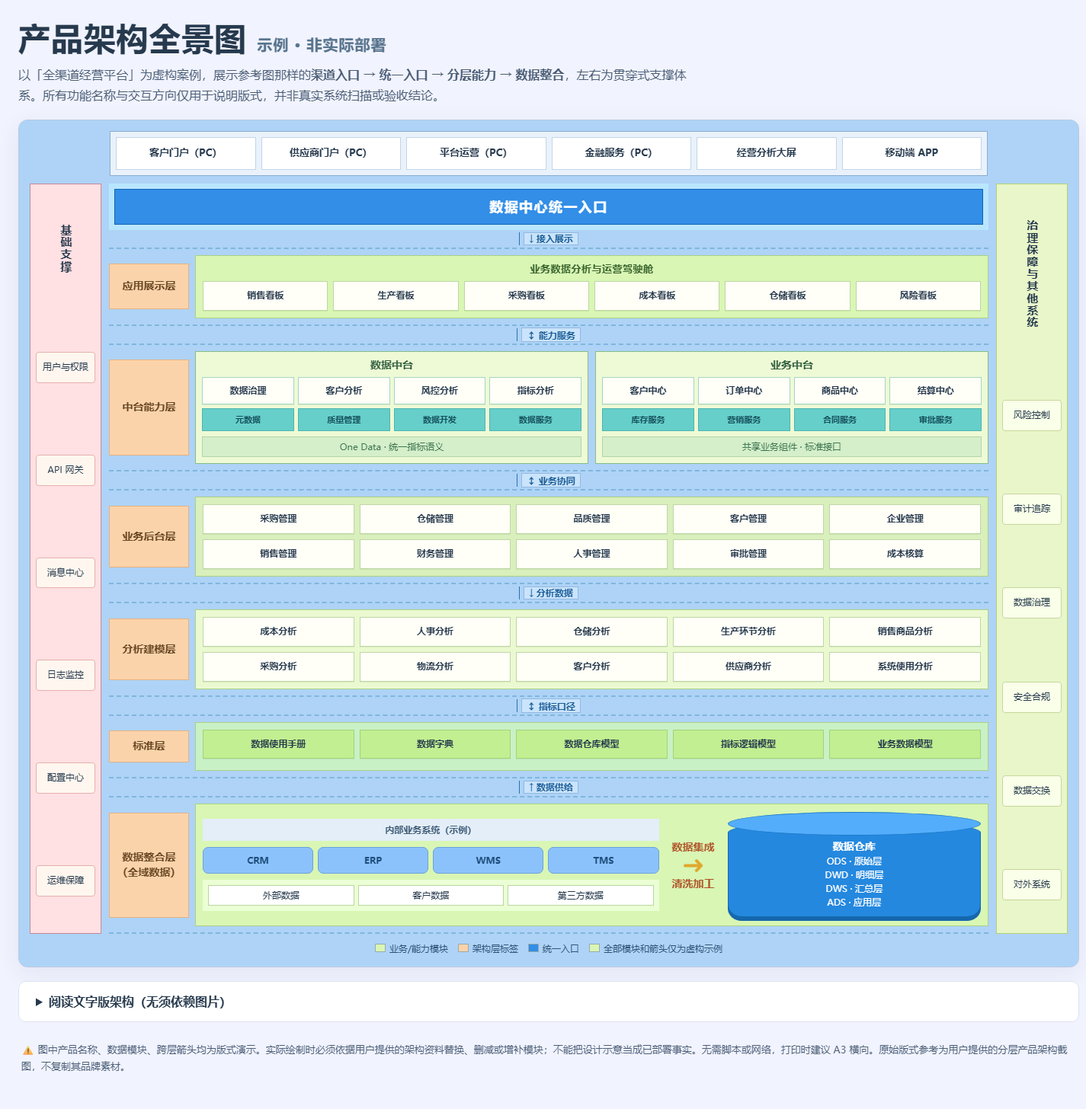
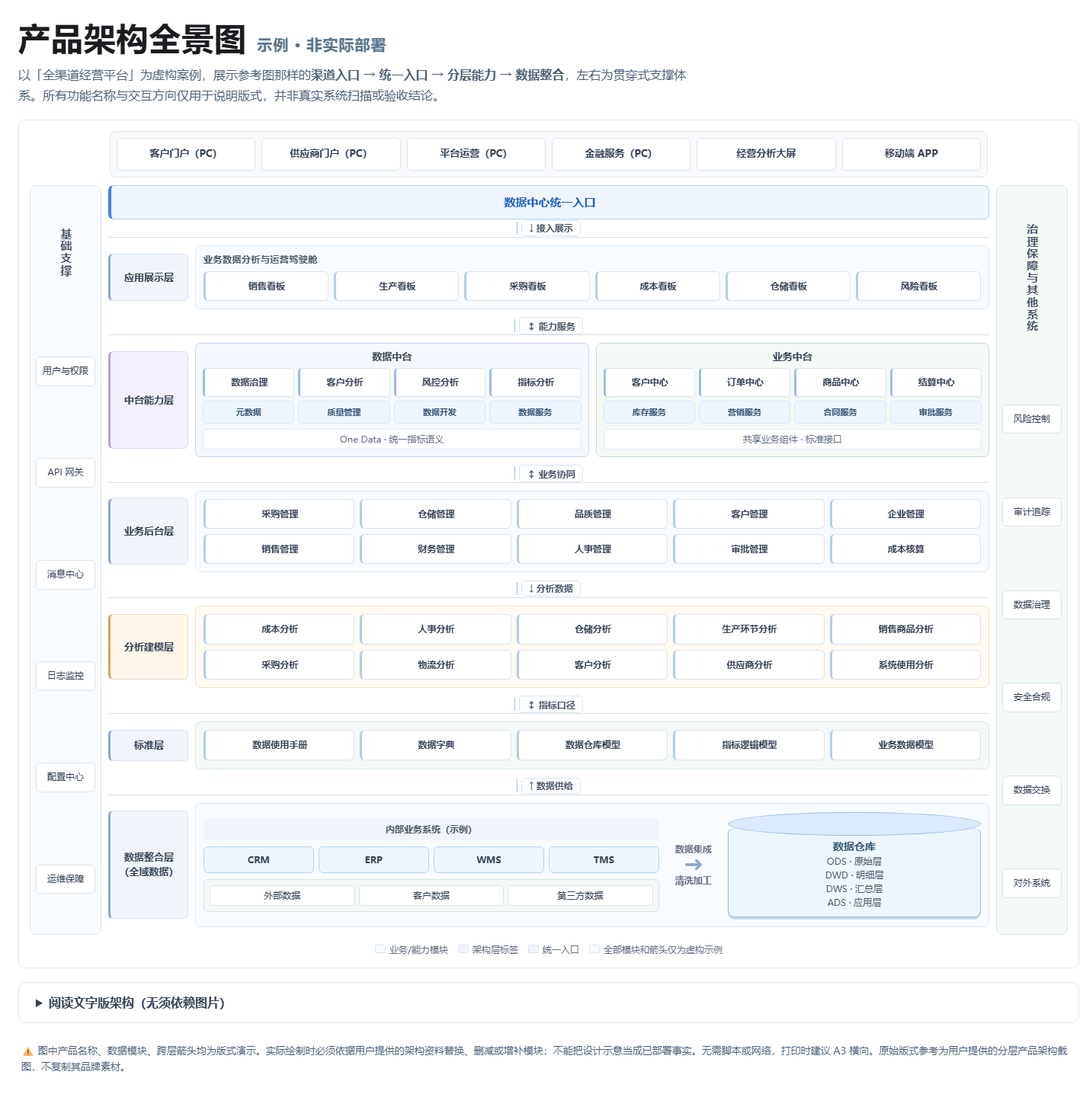
feat: 统一产品架构全景图与SVG系列视觉风格
全景图主题,四案例预览,浏览器回归

GEN-UI

diff --git a/demo/documents/implementation-plan.html b/demo/documents/implementation-plan.html
@@ -1,5 +1,5 @@
 <!doctype html>
-<html lang="zh-CN"><head><meta charset="utf-8"><meta name="viewport" content="width=device-width,initial-scale=1"><meta name="description" content="可靠异步任务编排系统的技术实施方案，包含阶段计划、迁移、灰度、回滚和验收标准。"><title>技术实施方案 · 可靠异步任务编排改造 · GEN-UI 技术文档示例</title><link rel="stylesheet" href="assets/document.css"><link rel="stylesheet" href="assets/product-panorama-case.css"><script src="assets/document.js" defer></script><link rel="icon" type="image/svg+xml" href="../../assets/icons/gen-ui-mark.svg"><link rel="stylesheet" href="../../assets/media-viewer.css"><script src="../../assets/media-viewer.js" defer></script><script src="../../assets/code-blocks.js" defer></script><link rel="stylesheet" href="../../assets/diagram-types.css"><link rel="stylesheet" href="../../assets/semantic-diagrams.css"><script src="../../assets/semantic-diagrams.js" defer></script><link rel="stylesheet" href="../../assets/heading-nav.css"><script src="../../assets/heading-nav.js" defer></script></head><body><div class="doc-layout"><aside class="doc-toc" aria-label="文档目录"><p class="toc-brand">GEN-UI / TECHNICAL DOCUMENT</p><p class="toc-label">本文目录</p><nav aria-label="文档目录"><ul class="toc-list"><li><a href="#scope">实施目标与改造范围</a></li><li><a href="#roadmap">实施阶段与依赖关系</a></li><li><a href="#work">详细实施任务</a></li><li><a href="#changes">模块改造建议</a></li><li><a href="#migration">数据迁移与兼容策略</a></li><li><a href="#release">灰度发布与回滚</a></li><li><a href="#risks">实施风险与控制</a></li><li><a href="#acceptance">交付物与验收标准</a></li><li><a href="#extra-diagrams">关系图示</a></li></ul></nav><div class="toc-foot">脱敏示例文档<br>内容为设计演示，不代表真实审计结论</div></aside><main class="doc-main"><div class="doc-topline"><div class="doc-breadcrumb"><a href="index.html">技术文档示例集</a><span>/</span><span>技术实施方案</span></div><span>GEN-UI · HTML</span></div><details class="mobile-toc"><summary>查看本文目录</summary><ul class="toc-list"><li><a href="#scope">实施目标与改造范围</a></li><li><a href="#roadmap">实施阶段与依赖关系</a></li><li><a href="#work">详细实施任务</a></li><li><a href="#changes">模块改造建议</a></li><li><a href="#migration">数据迁移与兼容策略</a></li><li><a href="#release">灰度发布与回滚</a></li><li><a href="#risks">实施风险与控制</a></li><li><a href="#acceptance">交付物与验收标准</a></li><li><a href="#extra-diagrams">关系图示</a></li></ul></details><header><div class="doc-meta"><span><b>生成时间</b><time class="generated-at" datetime="2026-11-10T13:57:49+08:00">2026-11-10 13:57:49</time></span><span><b>文档编号</b>DOC-IM-003</span><span><b>版本</b>V1.0</span><span><b>文档类型</b>技术实施方案</span><span><b>更新时间</b>2026-11-09</span><span><b>状态</b><span class="tag tag--blue">示例文档</span></span></div><p class="doc-kicker">ENGINEERING DOCUMENT / SANITIZED CASE</p><h1>技术实施方案 · 可靠异步任务编排改造</h1><p class="doc-lede">将长耗时工作流从同步执行改造为持久化驱动的异步任务体系，按基线梳理、核心改造、恢复能力和上线验收四个阶段交付。</p><div class="doc-summary"><strong>实施策略</strong><p>先明确状态模型和消息契约，再落地 Outbox、幂等消费与 Fencing，最后通过故障注入和灰度发布验证恢复能力。任何阶段都以可复现证据作为退出条件。</p></div></header>
+<html lang="zh-CN"><head><meta charset="utf-8"><meta name="viewport" content="width=device-width,initial-scale=1"><meta name="description" content="可靠异步任务编排系统的技术实施方案，包含阶段计划、迁移、灰度、回滚和验收标准。"><title>技术实施方案 · 可靠异步任务编排改造 · GEN-UI 技术文档示例</title><link rel="stylesheet" href="assets/document.css"><link rel="stylesheet" href="assets/product-panorama-case.css"><link rel="stylesheet" href="../../assets/product-panorama-svg-theme.css"><script src="assets/document.js" defer></script><link rel="icon" type="image/svg+xml" href="../../assets/icons/gen-ui-mark.svg"><link rel="stylesheet" href="../../assets/media-viewer.css"><script src="../../assets/media-viewer.js" defer></script><script src="../../assets/code-blocks.js" defer></script><link rel="stylesheet" href="../../assets/diagram-types.css"><link rel="stylesheet" href="../../assets/semantic-diagrams.css"><script src="../../assets/semantic-diagrams.js" defer></script><link rel="stylesheet" href="../../assets/heading-nav.css"><script src="../../assets/heading-nav.js" defer></script></head><body><div class="doc-layout"><aside class="doc-toc" aria-label="文档目录"><p class="toc-brand">GEN-UI / TECHNICAL DOCUMENT</p><p class="toc-label">本文目录</p><nav aria-label="文档目录"><ul class="toc-list"><li><a href="#scope">实施目标与改造范围</a></li><li><a href="#roadmap">实施阶段与依赖关系</a></li><li><a href="#work">详细实施任务</a></li><li><a href="#changes">模块改造建议</a></li><li><a href="#migration">数据迁移与兼容策略</a></li><li><a href="#release">灰度发布与回滚</a></li><li><a href="#risks">实施风险与控制</a></li><li><a href="#acceptance">交付物与验收标准</a></li><li><a href="#extra-diagrams">关系图示</a></li></ul></nav><div class="toc-foot">脱敏示例文档<br>内容为设计演示，不代表真实审计结论</div></aside><main class="doc-main"><div class="doc-topline"><div class="doc-breadcrumb"><a href="index.html">技术文档示例集</a><span>/</span><span>技术实施方案</span></div><span>GEN-UI · HTML</span></div><details class="mobile-toc"><summary>查看本文目录</summary><ul class="toc-list"><li><a href="#scope">实施目标与改造范围</a></li><li><a href="#roadmap">实施阶段与依赖关系</a></li><li><a href="#work">详细实施任务</a></li><li><a href="#changes">模块改造建议</a></li><li><a href="#migration">数据迁移与兼容策略</a></li><li><a href="#release">灰度发布与回滚</a></li><li><a href="#risks">实施风险与控制</a></li><li><a href="#acceptance">交付物与验收标准</a></li><li><a href="#extra-diagrams">关系图示</a></li></ul></details><header><div class="doc-meta"><span><b>生成时间</b><time class="generated-at" datetime="2026-11-10T13:57:49+08:00">2026-11-10 13:57:49</time></span><span><b>文档编号</b>DOC-IM-003</span><span><b>版本</b>V1.0</span><span><b>文档类型</b>技术实施方案</span><span><b>更新时间</b>2026-11-09</span><span><b>状态</b><span class="tag tag--blue">示例文档</span></span></div><p class="doc-kicker">ENGINEERING DOCUMENT / SANITIZED CASE</p><h1>技术实施方案 · 可靠异步任务编排改造</h1><p class="doc-lede">将长耗时工作流从同步执行改造为持久化驱动的异步任务体系，按基线梳理、核心改造、恢复能力和上线验收四个阶段交付。</p><div class="doc-summary"><strong>实施策略</strong><p>先明确状态模型和消息契约，再落地 Outbox、幂等消费与 Fencing，最后通过故障注入和灰度发布验证恢复能力。任何阶段都以可复现证据作为退出条件。</p></div></header>
 <section class="doc-section" id="scope"><h2>一、 实施目标与改造范围</h2><p>本实施方案将同步、单进程内的长任务执行方式，逐步改造为持久化驱动的异步任务编排。目标是保证任务可追踪、可恢复、可幂等处理，并使节点执行结果能够被可靠汇总。</p><div class="table-wrap"><table><caption>改造范围</caption><thead><tr><th>范围</th><th>本次实施</th><th>明确不做</th></tr></thead><tbody><tr><td>任务模型</td><td>Run、Node、Task、Attempt 状态与关联</td><td>重构无关业务领域模型</td></tr><tr><td>任务执行</td><td>调度、Outbox、Worker 领取与回写</td><td>替换所有模型供应商</td></tr><tr><td>一致性</td><td>乐观锁、Fencing Token、消费幂等</td><td>宣称端到端 exactly-once</td></tr><tr><td>恢复能力</td><td>过期任务对账、断点恢复、事件留痕</td><td>自动修复所有业务数据错误</td></tr><tr><td>可观测性</td><td>统一关联 ID、关键指标和失败分类</td><td>本期建设完整数据分析平台</td></tr></tbody></table></div></section>
 <section class="doc-section" id="roadmap"><h2>二、 实施阶段与依赖关系</h2><p>推荐按“先明确契约，再打通可靠执行，最后补齐恢复和验收”的顺序推进。任何阶段如果发现当前数据模型无法表达执行权或尝试历史，应先修正模型，不应通过临时缓存字段绕过。</p><div class="diagram" data-diagram><div class="diagram-toolbar"><strong>实施阶段依赖关系</strong><div class="diagram-actions"><button type="button" class="diagram-icon-button" data-zoom-out aria-label="缩小图表" title="缩小图表"><svg viewBox="0 0 20 20" aria-hidden="true"><path d="M4 10h12"/></svg></button><button type="button" class="diagram-icon-button" data-zoom-in aria-label="放大图表" title="放大图表"><svg viewBox="0 0 20 20" aria-hidden="true"><path d="M4 10h12M10 4v12"/></svg></button><span data-zoom-label aria-live="polite">100%</span><button type="button" class="diagram-icon-button" data-fit aria-label="适应窗口" title="适应窗口"><svg viewBox="0 0 20 20" aria-hidden="true"><path d="M3 8V3h5M12 3h5v5M17 12v5h-5M8 17H3v-5"/></svg></button><button type="button" class="diagram-icon-button" data-fullscreen aria-label="全屏查看图表" title="全屏查看图表"><svg viewBox="0 0 20 20" aria-hidden="true"><path d="M3 7V3h4M13 3h4v4M17 13v4h-4M7 17H3v-4"/></svg></button></div></div><div class="diagram-viewport" tabindex="0" role="region" aria-label="实施阶段依赖关系，可使用方向键平移，鼠标拖动"><svg viewBox="0 0 1000 260" role="img" aria-label="实施阶段依赖关系"><title>实施阶段依赖关系</title><desc>实施阶段依赖关系，展示系统模块、执行流程或状态关系。</desc><defs><marker id="arr" markerWidth="9" markerHeight="9" refX="7" refY="4" orient="auto"><path d="M0 0L8 4L0 8" fill="#98a2b3"/></marker></defs><rect x="25" y="80" width="185" height="85" rx="9" fill="#F7FAFF" stroke="#B7D2FA" stroke-width="1.5"/><text x="117.5" y="109" text-anchor="middle" font-size="15" font-weight="700" fill="#1A1C1F">阶段一 · 基线梳理</text><text x="117.5" y="132" text-anchor="middle" font-size="11" fill="#667085">现状盘点 / 契约确认</text><rect x="280" y="80" width="185" height="85" rx="9" fill="#F7FAFF" stroke="#B7D2FA" stroke-width="1.5"/><text x="372.5" y="109" text-anchor="middle" font-size="15" font-weight="700" fill="#1A1C1F">阶段二 · 核心改造</text><text x="372.5" y="132" text-anchor="middle" font-size="11" fill="#667085">状态机 / CAS / Outbox</text><rect x="535" y="80" width="185" height="85" rx="9" fill="#F7FAFF" stroke="#B7D2FA" stroke-width="1.5"/><text x="627.5" y="109" text-anchor="middle" font-size="15" font-weight="700" fill="#1A1C1F">阶段三 · 恢复能力</text><text x="627.5" y="132" text-anchor="middle" font-size="11" fill="#667085">Fencing / 对账 / 幂等</text><rect x="790" y="80" width="185" height="85" rx="9" fill="#EDF8F2" stroke="#B7DDC5" stroke-width="1.5"/><text x="882.5" y="109" text-anchor="middle" font-size="15" font-weight="700" fill="#1A1C1F">阶段四 · 验收上线</text><text x="882.5" y="132" text-anchor="middle" font-size="11" fill="#667085">故障注入 / 灰度 / 观察</text><path d="M210 122 L280 122" stroke="#98A2B3" stroke-width="1.7" fill="none" marker-end="url(#arr)"/><path d="M465 122 L535 122" stroke="#98A2B3" stroke-width="1.7" fill="none" marker-end="url(#arr)"/><path d="M720 122 L790 122" stroke="#98A2B3" stroke-width="1.7" fill="none" marker-end="url(#arr)"/><path d="M375 165V210H880V165" stroke="#E6A23C" stroke-width="1.5" fill="none" stroke-dasharray="5 4" marker-end="url(#arr)"/><text x="625" y="230" text-anchor="middle" font-size="11" fill="#8A5A12">每阶段通过评审门禁后再进入下一阶段</text></svg></div><p class="diagram-caption">图 1：阶段门禁是进入下一阶段的前提；阶段三与阶段四可以在测试准备上部分并行，但不能跳过核心一致性验证。</p></div><div class="table-wrap"><table><caption>阶段计划</caption><thead><tr><th>阶段</th><th>工作包</th><th>交付物</th><th>退出条件</th></tr></thead><tbody><tr><td>阶段一 · 基线梳理</td><td>梳理当前流程、状态字段、消息路径、异常类型与数据归属</td><td>现状图、状态迁移表、接口契约、风险清单</td><td>核心状态与边界经评审确认</td></tr><tr><td>阶段二 · 核心改造</td><td>建立 Task / Attempt 模型、CAS 更新、Outbox 发布与幂等消费</td><td>持久化模型、调度器、Worker 基础链路</td><td>重复消息不会造成重复状态提交</td></tr><tr><td>阶段三 · 恢复能力</td><td>增加 fencing、心跳、租约对账、恢复扫描和错误分类</td><td>恢复器、故障注入脚本、恢复事件</td><td>旧执行者不能覆盖新执行者结果</td></tr><tr><td>阶段四 · 验收上线</td><td>集成测试、并发测试、灰度、监控与回滚演练</td><td>测试证据、发布记录、回滚记录</td><td>P0 用例通过且观察窗口无阻断问题</td></tr></tbody></table></div>
 <div class="genui-product-panorama" data-product-panorama-case="implementation-plan">

diff --git a/demo/documents/test-acceptance.html b/demo/documents/test-acceptance.html
@@ -1,5 +1,5 @@
 <!doctype html>
-<html lang="zh-CN"><head><meta charset="utf-8"><meta name="viewport" content="width=device-width,initial-scale=1"><meta name="description" content="异步任务编排系统测试验收方案，覆盖状态机、重复消息、执行权、故障恢复、性能和权限。"><title>测试与验收方案 · 异步任务可靠性专项 · GEN-UI 技术文档示例</title><link rel="stylesheet" href="assets/document.css"><link rel="stylesheet" href="assets/product-panorama-case.css"><script src="assets/document.js" defer></script><link rel="icon" type="image/svg+xml" href="../../assets/icons/gen-ui-mark.svg"><link rel="stylesheet" href="../../assets/media-viewer.css"><script src="../../assets/media-viewer.js" defer></script><script src="../../assets/code-blocks.js" defer></script><link rel="stylesheet" href="../../assets/diagram-types.css"><link rel="stylesheet" href="../../assets/semantic-diagrams.css"><script src="../../assets/semantic-diagrams.js" defer></script><link rel="stylesheet" href="../../assets/heading-nav.css"><script src="../../assets/heading-nav.js" defer></script></head><body><div class="doc-layout"><aside class="doc-toc" aria-label="文档目录"><p class="toc-brand">GEN-UI / TECHNICAL DOCUMENT</p><p class="toc-label">本文目录</p><nav aria-label="文档目录"><ul class="toc-list"><li><a href="#strategy">测试目标与策略</a></li><li><a href="#environment">环境、数据与前置条件</a></li><li><a href="#matrix">测试覆盖矩阵</a></li><li><a href="#cases">核心测试用例</a></li><li><a href="#faults">关键故障注入验证</a></li><li><a href="#performance">性能与稳定性测试</a></li><li><a href="#security">安全与数据正确性</a></li><li><a href="#acceptance">验收门禁与证据要求</a></li><li><a href="#extra-diagrams">关系图示</a></li></ul></nav><div class="toc-foot">脱敏示例文档<br>内容为设计演示，不代表真实审计结论</div></aside><main class="doc-main"><div class="doc-topline"><div class="doc-breadcrumb"><a href="index.html">技术文档示例集</a><span>/</span><span>测试与验收方案</span></div><span>GEN-UI · HTML</span></div><details class="mobile-toc"><summary>查看本文目录</summary><ul class="toc-list"><li><a href="#strategy">测试目标与策略</a></li><li><a href="#environment">环境、数据与前置条件</a></li><li><a href="#matrix">测试覆盖矩阵</a></li><li><a href="#cases">核心测试用例</a></li><li><a href="#faults">关键故障注入验证</a></li><li><a href="#performance">性能与稳定性测试</a></li><li><a href="#security">安全与数据正确性</a></li><li><a href="#acceptance">验收门禁与证据要求</a></li><li><a href="#extra-diagrams">关系图示</a></li></ul></details><header><div class="doc-meta"><span><b>生成时间</b><time class="generated-at" datetime="2026-11-10T13:57:49+08:00">2026-11-10 13:57:49</time></span><span><b>文档编号</b>DOC-TA-004</span><span><b>版本</b>V1.0</span><span><b>文档类型</b>测试与验收方案</span><span><b>更新时间</b>2026-11-09</span><span><b>状态</b><span class="tag tag--blue">示例文档</span></span></div><p class="doc-kicker">ENGINEERING DOCUMENT / SANITIZED CASE</p><h1>测试与验收方案 · 异步任务可靠性专项</h1><p class="doc-lede">围绕任务状态一致性、重复投递、租约过期、进程崩溃与断点恢复设计可重复的测试用例，并定义验收所需的原始证据。</p><div class="doc-summary"><strong>验收原则</strong><p>只认可可复现的测试证据。状态正确性、唯一执行权、消息幂等和故障恢复属于 P0 门禁；性能指标必须在目标环境测量后再确定，示例参数不能冒充实测结果。</p></div></header>
+<html lang="zh-CN"><head><meta charset="utf-8"><meta name="viewport" content="width=device-width,initial-scale=1"><meta name="description" content="异步任务编排系统测试验收方案，覆盖状态机、重复消息、执行权、故障恢复、性能和权限。"><title>测试与验收方案 · 异步任务可靠性专项 · GEN-UI 技术文档示例</title><link rel="stylesheet" href="assets/document.css"><link rel="stylesheet" href="assets/product-panorama-case.css"><link rel="stylesheet" href="../../assets/product-panorama-svg-theme.css"><script src="assets/document.js" defer></script><link rel="icon" type="image/svg+xml" href="../../assets/icons/gen-ui-mark.svg"><link rel="stylesheet" href="../../assets/media-viewer.css"><script src="../../assets/media-viewer.js" defer></script><script src="../../assets/code-blocks.js" defer></script><link rel="stylesheet" href="../../assets/diagram-types.css"><link rel="stylesheet" href="../../assets/semantic-diagrams.css"><script src="../../assets/semantic-diagrams.js" defer></script><link rel="stylesheet" href="../../assets/heading-nav.css"><script src="../../assets/heading-nav.js" defer></script></head><body><div class="doc-layout"><aside class="doc-toc" aria-label="文档目录"><p class="toc-brand">GEN-UI / TECHNICAL DOCUMENT</p><p class="toc-label">本文目录</p><nav aria-label="文档目录"><ul class="toc-list"><li><a href="#strategy">测试目标与策略</a></li><li><a href="#environment">环境、数据与前置条件</a></li><li><a href="#matrix">测试覆盖矩阵</a></li><li><a href="#cases">核心测试用例</a></li><li><a href="#faults">关键故障注入验证</a></li><li><a href="#performance">性能与稳定性测试</a></li><li><a href="#security">安全与数据正确性</a></li><li><a href="#acceptance">验收门禁与证据要求</a></li><li><a href="#extra-diagrams">关系图示</a></li></ul></nav><div class="toc-foot">脱敏示例文档<br>内容为设计演示，不代表真实审计结论</div></aside><main class="doc-main"><div class="doc-topline"><div class="doc-breadcrumb"><a href="index.html">技术文档示例集</a><span>/</span><span>测试与验收方案</span></div><span>GEN-UI · HTML</span></div><details class="mobile-toc"><summary>查看本文目录</summary><ul class="toc-list"><li><a href="#strategy">测试目标与策略</a></li><li><a href="#environment">环境、数据与前置条件</a></li><li><a href="#matrix">测试覆盖矩阵</a></li><li><a href="#cases">核心测试用例</a></li><li><a href="#faults">关键故障注入验证</a></li><li><a href="#performance">性能与稳定性测试</a></li><li><a href="#security">安全与数据正确性</a></li><li><a href="#acceptance">验收门禁与证据要求</a></li><li><a href="#extra-diagrams">关系图示</a></li></ul></details><header><div class="doc-meta"><span><b>生成时间</b><time class="generated-at" datetime="2026-11-10T13:57:49+08:00">2026-11-10 13:57:49</time></span><span><b>文档编号</b>DOC-TA-004</span><span><b>版本</b>V1.0</span><span><b>文档类型</b>测试与验收方案</span><span><b>更新时间</b>2026-11-09</span><span><b>状态</b><span class="tag tag--blue">示例文档</span></span></div><p class="doc-kicker">ENGINEERING DOCUMENT / SANITIZED CASE</p><h1>测试与验收方案 · 异步任务可靠性专项</h1><p class="doc-lede">围绕任务状态一致性、重复投递、租约过期、进程崩溃与断点恢复设计可重复的测试用例，并定义验收所需的原始证据。</p><div class="doc-summary"><strong>验收原则</strong><p>只认可可复现的测试证据。状态正确性、唯一执行权、消息幂等和故障恢复属于 P0 门禁；性能指标必须在目标环境测量后再确定，示例参数不能冒充实测结果。</p></div></header>
 <section class="doc-section" id="strategy"><h2>一、 测试目标与策略</h2><p>测试重点是验证任务编排的正确性与故障恢复能力，而不是只验证“正常路径能跑通”。测试必须覆盖状态机、消息重复、执行权竞争、进程中断、恢复对账、权限隔离和可观测性。</p><div class="table-wrap"><table><caption>测试层级</caption><thead><tr><th>层级</th><th>验证对象</th><th>主要方式</th><th>交付证据</th></tr></thead><tbody><tr><td>单元测试</td><td>状态迁移、错误分类、退避策略、幂等判断</td><td>固定输入、边界值和属性测试</td><td>测试报告与覆盖率</td></tr><tr><td>集成测试</td><td>数据库事务、Outbox、MQ、Worker</td><td>容器化依赖、消息重放</td><td>事件链路与数据快照</td></tr><tr><td>故障注入</td><td>租约过期、进程崩溃、网络超时、ACK 丢失</td><td>定点终止、延迟、断网、重复投递</td><td>故障前后状态与恢复记录</td></tr><tr><td>并发测试</td><td>同一任务竞争领取与提交</td><td>多 Worker 并发执行</td><td>token 变化与唯一有效写入证明</td></tr><tr><td>性能测试</td><td>排队、吞吐、数据库扫描与恢复耗时</td><td>逐级增加并发、持续压测</td><td>原始指标、环境配置和瓶颈分析</td></tr></tbody></table></div></section>
 <section class="doc-section" id="environment"><h2>二、 环境、数据与前置条件</h2><ul><li>使用隔离测试数据库、独立消息队列和模拟模型服务，禁止向真实用户或生产模型账户发送测试内容。</li><li>准备固定 Run、Task、Attempt、Event 和 Artifact 样本；每轮测试记录数据集版本与输入摘要。</li><li>测试 Worker 支持可控暂停、退出、延迟返回和网络错误注入。</li><li>统一采集服务日志、数据库快照、消息 ID、Trace ID 和时间戳，保证证据可以关联。</li></ul><p>每次故障注入应保留结构化证据，例如：</p><pre><code class="language-json">{
   "caseId": "TC-003",

diff --git a/assets/product-panorama-svg-theme.css b/assets/product-panorama-svg-theme.css
@@ -1,0 +1,156 @@
+/* GEN-UI SVG-series visual language for product panoramas.
+   Shared by the general example and the four technical cases. Layout and content remain unchanged.
+   Palette follows semantic-diagrams.css / architecture-views.css: quiet surfaces, fine strokes,
+   blue focus, and restrained semantic green/amber/lilac accents. */
+:where(.bp-poster,.genui-product-panorama){
+ --pan-ink:#344054;--pan-muted:#667085;--pan-line:#dfe5ed;
+ --pan-blue:#3a83f7;--pan-blue-dark:#2468c9;--pan-blue-soft:#eff6ff;
+ --pan-surface:#fff;--pan-alt:#f8fafc;--pan-green:#eef9f1;
+ --pan-green-stroke:#bddcca;--pan-amber:#fff7eb;--pan-purple:#f4f0ff;
+ color:var(--pan-ink);
+}
+/* The canvas uses the same quiet dotted grid as semantic SVG diagrams. */
+.bp-viewport,.genui-product-panorama .panorama-scroll{
+ border:1px solid var(--pan-line,#dfe5ed);border-radius:9px;background:#fff;
+ box-shadow:none;scrollbar-color:#dbe5f1 transparent;
+}
+.bp-poster,.genui-product-panorama .panorama-board{
+ background-color:#fff;
+ background-image:radial-gradient(#edf1f5 .7px,transparent .7px);
+ background-size:16px 16px;
+ color:#344054;
+}
+/* Top-row channels are simple SVG-style outlined nodes, not colored tiles. */
+.bp-channels,.genui-product-panorama .panorama-channels{
+ background:#f8fafc;border:1px solid #dfe5ed;border-radius:8px;
+ padding:8px;gap:8px;
+}
+.bp-channel,.genui-product-panorama .panorama-channel{
+ background:#fff;border:1px solid #dce4ee;border-radius:6px;
+ color:#344054;box-shadow:0 1px 2px rgba(24,44,70,.03);
+}
+.bp-grid,.genui-product-panorama .panorama-grid{gap:9px}
+/* Cross-cutting support zones use the SVG family blue/green semantics. */
+.bp-rail,.genui-product-panorama .panorama-rail{
+ background:#f8fbff;border:1px solid #d7e3f2;border-radius:8px;
+ padding:10px 7px;gap:10px;color:#475467;
+}
+.bp-rail.right,.genui-product-panorama .panorama-rail--right{
+ background:#f5faf7;border-color:#d4e5da;
+}
+.bp-rail h2,.genui-product-panorama .panorama-rail-title{
+ color:#475467;font-weight:700;
+}
+.bp-rail .bp-rail-item,.genui-product-panorama .panorama-rail-item{
+ background:#fff;border:1px solid #dce4ee;border-radius:5px;
+ color:#344054;padding:10px 4px;
+}
+.bp-rail.right .bp-rail-item,.genui-product-panorama .panorama-rail--right .panorama-rail-item{
+ background:#fff;border-color:#d6e7dc;
+}
+/* API entry: SVG node treatment with a narrow blue accent, never a solid banner. */
+.bp-entry,.genui-product-panorama .panorama-gateway{
+ border:1px solid #b7d2fa;border-left:4px solid #3a83f7;border-radius:7px;
+ background:#eff6ff;color:#185abc;box-shadow:0 1px 3px rgba(27,52,83,.035);
+ letter-spacing:0;font-size:15px;padding:12px 9px;
+}
+.bp-link,.genui-product-panorama .panorama-flow{color:#667085;font-weight:650}
+.bp-link::before{background:#9dbce3}
+.bp-link span,.genui-product-panorama .panorama-flow span{
+ background:#fff;border:1px solid #d9e4f2;border-radius:5px;
+ color:#475467;padding:2px 9px;
+}
+/* Layer ribbons are outlines, with semantic-label pills rather than big orange blocks. */
+.bp-layer,.genui-product-panorama .panorama-band{
+ border-top:1px solid #d9e0ea;border-bottom:0;padding:10px 0;
+ gap:9px;
+}
+.bp-label,.genui-product-panorama .panorama-band-label{
+ background:#f2f6fc;border:1px solid #d7e3f2;border-left:3px solid #8ba8cc;
+ border-radius:6px;color:#344054;font-weight:730;
+ font-size:13px;line-height:1.45;
+}
+.bp-region,.bp-region--medium,.bp-region--light,.bp-region--mint,
+.genui-product-panorama .panorama-band-content,
+.genui-product-panorama .panorama-band:nth-of-type(4n) .panorama-band-content{
+ background:#f8fbff;border:1px solid #dce7f5;border-radius:7px;
+ padding:10px;
+}
+.bp-region-title,.genui-product-panorama .panorama-band-title{
+ color:#475467;font-size:12px;font-weight:700;
+ text-align:left;margin:0 0 8px;
+}
+.bp-module,.genui-product-panorama .panorama-chip{
+ background:#fff;border:1px solid #dce4ee;border-left:3px solid #b3cdea;
+ border-radius:6px;color:#344054;box-shadow:0 1px 2px rgba(27,52,83,.025);
+ font-weight:600;line-height:1.45;
+}
+.bp-standard .bp-module{background:#fff;border-color:#dce4ee;border-left-color:#b3cdea}
+.bp-center,.genui-product-panorama .panorama-center-block{
+ background:#f5f9ff;border:1px solid #cad9ed;border-radius:7px;
+ padding:9px;
+}
+.bp-center:nth-child(2),.genui-product-panorama .panorama-center-block:nth-child(2){
+ background:#f4faf6;border-color:#c9dfcf;
+}
+.bp-center h3,.genui-product-panorama .panorama-center-block>strong{
+ color:#344054;font-size:13px;font-weight:700;
+}
+.bp-center-grid .bp-module,.genui-product-panorama .panorama-center-modules .panorama-chip{
+ background:#fff;border:1px solid #dce4ee;border-left:3px solid #9dbce3;
+ border-radius:5px;color:#344054;
+}
+.bp-center-grid .bp-chip{
+ background:#eef6ff;border:1px solid #d6e7f7;border-radius:5px;
+ color:#315276;font-weight:650;
+}
+.bp-domain{background:#fff;border:1px solid #dfe8f3;border-radius:5px;color:#667085}
+/* Domain hints on later layers use semantic colors sparingly. */
+.bp-layer[data-blueprint-layer="标准层"] .bp-region,
+.genui-product-panorama .panorama-band:last-of-type .panorama-band-content{
+ background:#f4faf6;border-color:#d6e7dc;
+}
+.bp-layer[data-blueprint-layer="分析建模层"] .bp-region{
+ background:#fffaf2;border-color:#efdfc4;
+}
+.bp-layer[data-blueprint-layer="分析建模层"] .bp-label{
+ background:#fff7eb;border-color:#ebd9bc;border-left-color:#d8a65b;
+}
+.bp-layer[data-blueprint-layer="中台能力层"] .bp-label{
+ background:#f4f0ff;border-color:#ded5f5;border-left-color:#b4a0e3;
+}
+/* Source and storage should read like SVG data nodes, not glossy cartoons. */
+.bp-data-subtitle{background:#f2f6fc;color:#475467;border-radius:5px}
+.bp-source{background:#eef6ff;border:1px solid #b7d2fa;border-radius:6px;color:#344054}
+.bp-external{background:#f4faf6;border:1px solid #d6e7dc;border-radius:6px}
+.bp-external span{background:#fff;border-color:#d6e7dc;border-radius:4px}
+.bp-extract{color:#667085;font-weight:650;font-size:12px}
+.bp-extract strong{color:#8ba8cc;font-size:26px}
+.bp-db{background:#eef6ff;border:1px solid #9dbce3;color:#315276;
+ border-radius:45% 45% 9px 9px / 12% 12% 9px 9px;
+ box-shadow:0 3px 0 #cad9ed;min-height:122px;
+}
+.bp-db::before{background:#dceafe;border:1px solid #9dbce3}
+.bp-db small{color:#475467}
+.bp-legend{color:#667085}
+.bp-legend span::before{background:#f8fbff;border-color:#dce4ee;border-radius:2px}
+.bp-legend span:nth-child(2)::before{background:#f2f6fc}
+.bp-legend span:nth-child(3)::before{background:#eff6ff}
+.bp-text,.genui-product-panorama .panorama-text{
+ background:#fff;border:1px solid #e4e7ec;color:#344054;box-shadow:none;
+}
+.genui-product-panorama .panorama-legend{
+ background:#f8fafc;border:1px solid #e4e7ec;border-radius:5px;
+ color:#667085;padding:9px;
+}
+.genui-product-panorama .panorama-heading{color:#1a1c1f}
+.genui-product-panorama .panorama-lede{color:#667085}
+.genui-product-panorama .panorama-grid{grid-template-columns:75px minmax(0,1fr) 75px}
+@media print{
+ .bp-poster,.genui-product-panorama .panorama-board{background:#fff}
+ .bp-viewport,.genui-product-panorama .panorama-scroll{box-shadow:none}
+}
+
+/* The standalone product example previously used a purple document backdrop. */
+body:has(.bp-viewport){background:#fff;color:#344054}
+body:has(.bp-viewport) h1{color:#1a1c1f}

diff --git a/demo/documents/architecture-design.html b/demo/documents/architecture-design.html
@@ -1,5 +1,5 @@
 <!doctype html>
-<html lang="zh-CN"><head><meta charset="utf-8"><meta name="viewport" content="width=device-width,initial-scale=1"><meta name="description" content="异步任务编排系统架构设计方案，包含状态机、Outbox、Fencing、重试与恢复机制。"><title>异步任务编排与断点恢复架构设计方案 · GEN-UI 技术文档示例</title><link rel="stylesheet" href="assets/document.css"><link rel="stylesheet" href="assets/product-panorama-case.css"><script src="assets/document.js" defer></script><link rel="icon" type="image/svg+xml" href="../../assets/icons/gen-ui-mark.svg"><link rel="stylesheet" href="../../assets/media-viewer.css"><script src="../../assets/media-viewer.js" defer></script><script src="../../assets/code-blocks.js" defer></script><link rel="stylesheet" href="../../assets/diagram-types.css"><link rel="stylesheet" href="../../assets/semantic-diagrams.css"><script src="../../assets/semantic-diagrams.js" defer></script><link rel="stylesheet" href="../../assets/heading-nav.css"><script src="../../assets/heading-nav.js" defer></script></head><body>
+<html lang="zh-CN"><head><meta charset="utf-8"><meta name="viewport" content="width=device-width,initial-scale=1"><meta name="description" content="异步任务编排系统架构设计方案，包含状态机、Outbox、Fencing、重试与恢复机制。"><title>异步任务编排与断点恢复架构设计方案 · GEN-UI 技术文档示例</title><link rel="stylesheet" href="assets/document.css"><link rel="stylesheet" href="assets/product-panorama-case.css"><link rel="stylesheet" href="../../assets/product-panorama-svg-theme.css"><script src="assets/document.js" defer></script><link rel="icon" type="image/svg+xml" href="../../assets/icons/gen-ui-mark.svg"><link rel="stylesheet" href="../../assets/media-viewer.css"><script src="../../assets/media-viewer.js" defer></script><script src="../../assets/code-blocks.js" defer></script><link rel="stylesheet" href="../../assets/diagram-types.css"><link rel="stylesheet" href="../../assets/semantic-diagrams.css"><script src="../../assets/semantic-diagrams.js" defer></script><link rel="stylesheet" href="../../assets/heading-nav.css"><script src="../../assets/heading-nav.js" defer></script></head><body>
 <div class="doc-layout"><aside class="doc-toc" aria-label="文档目录"><p class="toc-brand">GEN-UI / TECHNICAL DOCUMENT</p><p class="toc-label">本文目录</p><nav aria-label="文档目录"><ul class="toc-list"><li><a href="#goals">设计目标与约束</a></li><li><a href="#architecture">总体架构设计</a></li><li><a href="#components">组件职责与边界</a></li><li><a href="#state">任务状态机与不变量</a></li><li><a href="#consistency">并发控制与写入一致性</a></li><li><a href="#delivery">消息投递与 Outbox</a></li><li><a href="#recovery">失败分类与断点恢复</a></li><li><a href="#data">数据模型建议</a></li><li><a href="#ops">可观测性与安全</a></li><li><a href="#decisions">方案权衡与待确认</a></li><li><a href="#extra-diagrams">关系图示</a></li></ul></nav><div class="toc-foot">脱敏示例文档<br>内容为设计演示，不代表真实审计结论</div></aside>
 <main class="doc-main"><div class="doc-topline"><div class="doc-breadcrumb"><a href="index.html">技术文档示例集</a><span>/</span><span>系统架构设计方案</span></div><span>GEN-UI · HTML</span></div><details class="mobile-toc"><summary>查看本文目录</summary><ul class="toc-list"><li><a href="#goals">设计目标与约束</a></li><li><a href="#architecture">总体架构设计</a></li><li><a href="#components">组件职责与边界</a></li><li><a href="#state">任务状态机与不变量</a></li><li><a href="#consistency">并发控制与写入一致性</a></li><li><a href="#delivery">消息投递与 Outbox</a></li><li><a href="#recovery">失败分类与断点恢复</a></li><li><a href="#data">数据模型建议</a></li><li><a href="#ops">可观测性与安全</a></li><li><a href="#decisions">方案权衡与待确认</a></li><li><a href="#extra-diagrams">关系图示</a></li></ul></details>
 <header><div class="doc-meta"><span><b>生成时间</b><time class="generated-at" datetime="2026-11-10T13:57:49+08:00">2026-11-10 13:57:49</time></span><span><b>文档编号</b>DOC-AD-002</span><span><b>版本</b>V1.0</span><span><b>文档类型</b>系统架构设计方案</span><span><b>更新时间</b>2026-11-09</span><span><b>状态</b><span class="tag tag--blue">示例文档</span></span></div><p class="doc-kicker">ENGINEERING DOCUMENT / SANITIZED CASE</p><h1>异步任务编排与断点恢复架构设计方案</h1><p class="doc-lede">为长耗时、多阶段、依赖外部模型服务的工作流设计一套可靠执行架构，重点解决任务状态一致性、执行权竞争、消息重复投递和进程中断恢复。</p><div class="doc-summary"><strong>架构决策摘要</strong><p>以 MySQL 保存权威状态，以条件更新和 Fencing Token 保护唯一有效写入者；通过 Transactional Outbox 处理数据库与消息队列双写，以幂等消费接受重复投递；通过 Reconciler 对账恢复中断任务。</p></div></header>

diff --git a/demo/documents/project-analysis.html b/demo/documents/project-analysis.html
@@ -1,5 +1,5 @@
 <!doctype html>
-<html lang="zh-CN"><head><meta charset="utf-8"><meta name="viewport" content="width=device-width,initial-scale=1"><meta name="description" content="脱敏 AI 内容生产平台项目分析报告，覆盖系统架构、核心流程、领域模型与风险。"><title>AI 内容生产平台项目分析报告 · GEN-UI 技术文档示例</title><link rel="stylesheet" href="assets/document.css"><link rel="stylesheet" href="assets/product-panorama-case.css"><script src="assets/document.js" defer></script><link rel="icon" type="image/svg+xml" href="../../assets/icons/gen-ui-mark.svg"><link rel="stylesheet" href="../../assets/media-viewer.css"><script src="../../assets/media-viewer.js" defer></script><script src="../../assets/code-blocks.js" defer></script><link rel="stylesheet" href="../../assets/diagram-types.css"><link rel="stylesheet" href="../../assets/semantic-diagrams.css"><script src="../../assets/semantic-diagrams.js" defer></script><link rel="stylesheet" href="../../assets/heading-nav.css"><script src="../../assets/heading-nav.js" defer></script></head><body>
+<html lang="zh-CN"><head><meta charset="utf-8"><meta name="viewport" content="width=device-width,initial-scale=1"><meta name="description" content="脱敏 AI 内容生产平台项目分析报告，覆盖系统架构、核心流程、领域模型与风险。"><title>AI 内容生产平台项目分析报告 · GEN-UI 技术文档示例</title><link rel="stylesheet" href="assets/document.css"><link rel="stylesheet" href="assets/product-panorama-case.css"><link rel="stylesheet" href="../../assets/product-panorama-svg-theme.css"><script src="assets/document.js" defer></script><link rel="icon" type="image/svg+xml" href="../../assets/icons/gen-ui-mark.svg"><link rel="stylesheet" href="../../assets/media-viewer.css"><script src="../../assets/media-viewer.js" defer></script><script src="../../assets/code-blocks.js" defer></script><link rel="stylesheet" href="../../assets/diagram-types.css"><link rel="stylesheet" href="../../assets/semantic-diagrams.css"><script src="../../assets/semantic-diagrams.js" defer></script><link rel="stylesheet" href="../../assets/heading-nav.css"><script src="../../assets/heading-nav.js" defer></script></head><body>
 <div class="doc-layout"><aside class="doc-toc" aria-label="文档目录"><p class="toc-brand">GEN-UI / TECHNICAL DOCUMENT</p><p class="toc-label">本文目录</p><nav aria-label="文档目录"><ul class="toc-list"><li><a href="#background">项目背景与分析目标</a></li><li><a href="#scope">分析范围与证据边界</a></li><li><a href="#overview">系统全景与模块边界</a></li><li><a href="#workflow">核心业务链路分析</a></li><li><a href="#domain">核心领域模型</a></li><li><a href="#risks">关键技术风险</a></li><li><a href="#recommendations">改进建议与优先级</a></li><li><a href="#conclusion">分析结论</a></li><li><a href="#extra-diagrams">关系图示</a></li></ul></nav><div class="toc-foot">脱敏示例文档<br>内容为设计演示，不代表真实审计结论</div></aside>
 <main class="doc-main"><div class="doc-topline"><div class="doc-breadcrumb"><a href="index.html">技术文档示例集</a><span>/</span><span>项目分析报告</span></div><span>GEN-UI · HTML</span></div><details class="mobile-toc"><summary>查看本文目录</summary><ul class="toc-list"><li><a href="#background">项目背景与分析目标</a></li><li><a href="#scope">分析范围与证据边界</a></li><li><a href="#overview">系统全景与模块边界</a></li><li><a href="#workflow">核心业务链路分析</a></li><li><a href="#domain">核心领域模型</a></li><li><a href="#risks">关键技术风险</a></li><li><a href="#recommendations">改进建议与优先级</a></li><li><a href="#conclusion">分析结论</a></li><li><a href="#extra-diagrams">关系图示</a></li></ul></details>
 <header><div class="doc-meta"><span><b>生成时间</b><time class="generated-at" datetime="2026-11-10T13:57:49+08:00">2026-11-10 13:57:49</time></span><span><b>文档编号</b>DOC-AN-001</span><span><b>版本</b>V1.0</span><span><b>文档类型</b>项目分析报告</span><span><b>更新时间</b>2026-11-09</span><span><b>状态</b><span class="tag tag--blue">示例文档</span></span></div><p class="doc-kicker">ENGINEERING DOCUMENT / SANITIZED CASE</p><h1>AI 内容生产平台项目分析报告</h1><p class="doc-lede">围绕一个异步 AI 内容生产平台，梳理业务目标、模块边界、任务执行链路、领域模型和工程风险，展示项目分析文档应有的论证深度与证据边界。</p><div class="doc-summary"><strong>核心结论</strong><p>系统的主要工程难点不是单次模型调用，而是长流程中的任务状态收敛、外部调用不确定性、重复投递、执行权竞争和进程中断恢复。建议先把权威状态与执行权边界设计清楚，再完善质量门禁和可观测性。</p></div></header>

diff --git a/demo/product-architecture-panorama.html b/demo/product-architecture-panorama.html
@@ -65,6 +65,7 @@ h1{font-size:clamp(25px,3vw,42px);line-height:1.25;margin:0 0 8px;letter-spacing
 @media (max-width:600px){body{padding:12px}.bp-poster{min-width:1130px}.intro{font-size:14px}}
 @media print{@page{size:A3 landscape;margin:12mm}body{padding:0;background:white}main{max-width:none}.bp-viewport{overflow:visible;box-shadow:none;border:0}.bp-poster{min-width:0}.bp-text{break-inside:avoid}.bp-layer,.bp-region{break-inside:avoid}}
 </style>
+<link rel="stylesheet" href="../assets/product-panorama-svg-theme.css">
 </head>
 <body>
 <main>

diff --git a/references/product-architecture-panorama.md b/references/product-architecture-panorama.md
@@ -24,6 +24,10 @@
 6. **交付轻量化**：简单回答仍用 Markdown；明确需要图形文件时优先提供**静态离线 HTML/SVG**，不为了全景板引入新 JS 框架或第三方 CDN。桌面默认宽画布；窄屏在图内滚动，不允许整页水平溢出；打印优先横向。
 7. **图外仍可阅读**：图前提供一句话总览，图后保留同一层级的文字版和关键边界；浅色层带与深色文字保持对比，不能以颜色代替文字。图中文本可选中，不要用整张位图承载唯一信息。
 
+## 与 GEN-UI SVG 系列统一的视觉风格
+
+架构结构可以借鉴宽幅分层海报，**视觉样式必须沿用现有 SVG 系列**：白底/浅灰点阵画布、`#3A83F7` 蓝色强调、`#344054` 主要文字、浅灰细描边与小圆角；绿色/琥珀色仅作少量语义提示。禁止整块高饱和粉、绿、蓝铺底和粗重色边框，箭头/关系标签用清晰轻量的线条。可复用 [本地 SVG 主题 CSS](../assets/product-panorama-svg-theme.css)，但不能以样式统一为理由改变业务层次、复制示例模块或编造链路。
+
 ## 最小可复用示例
 
 [离线产品架构全景板](../demo/product-architecture-panorama.html) 是**纯 HTML + CSS** 示例，无脚本、无远程资源，采用顶部渠道、统一入口、六层能力地图、左右支撑侧栏与底部数据存储。里面的商贸产品模块是虚构演示，不是项目扫描结果；实际生成时应**替换模块和关系**，而不是套用这些业务名称。

diff --git a/README.md b/README.md
@@ -175,7 +175,7 @@ These checks validate fixed, trusted repository examples; they do not establish 
 MIT License · [LICENSE](LICENSE).
 
 
-**Product architecture panorama:** [Open the offline layered architecture example](demo/product-architecture-panorama.html), with top-level access channels, a shared entry point, six horizontal capability bands, dual middle platforms, and supporting rails on both sides. All modules are fictional layout examples, not a verified deployment.
+**Product architecture panorama:** [Open the offline layered architecture example](demo/product-architecture-panorama.html), with top-level access channels, a shared entry point, six horizontal capability bands, dual middle platforms, and supporting rails on both sides. It follows the existing GEN-UI SVG visual language (quiet white surfaces, fine outlines, blue accents). Modules are fictional layout examples, not a verified deployment.
 
 ![Chrome preview of the product architecture panorama](demo/assets/product-architecture-panorama-preview.png)
 

diff --git a/README.zh-CN.md b/README.zh-CN.md
@@ -187,7 +187,7 @@ node tests/chrome-semantic-stress.mjs --mobile
 MIT License · [LICENSE](LICENSE)。
 
 
-**产品架构全景图新版式：** [查看六层能力、双中台与两侧支撑体系的离线全景板](demo/product-architecture-panorama.html)。参考分层/模块矩阵的表达方式，模块均为虚构示例；具体项目应按来源替换，不把示意当成部署事实。
+**产品架构全景图新版式：** [查看六层能力、双中台与两侧支撑体系的离线全景板](demo/product-architecture-panorama.html)。采用与现有 SVG 图表一致的白底、细描边与 GEN-UI 蓝色强调；模块均为虚构示例；具体项目应按来源替换，不把示意当成部署事实。
 
 ![本地 Chrome 实测的产品架构全景板预览：六层能力、双中台和两侧支撑体系](demo/assets/product-architecture-panorama-preview.png)
 
